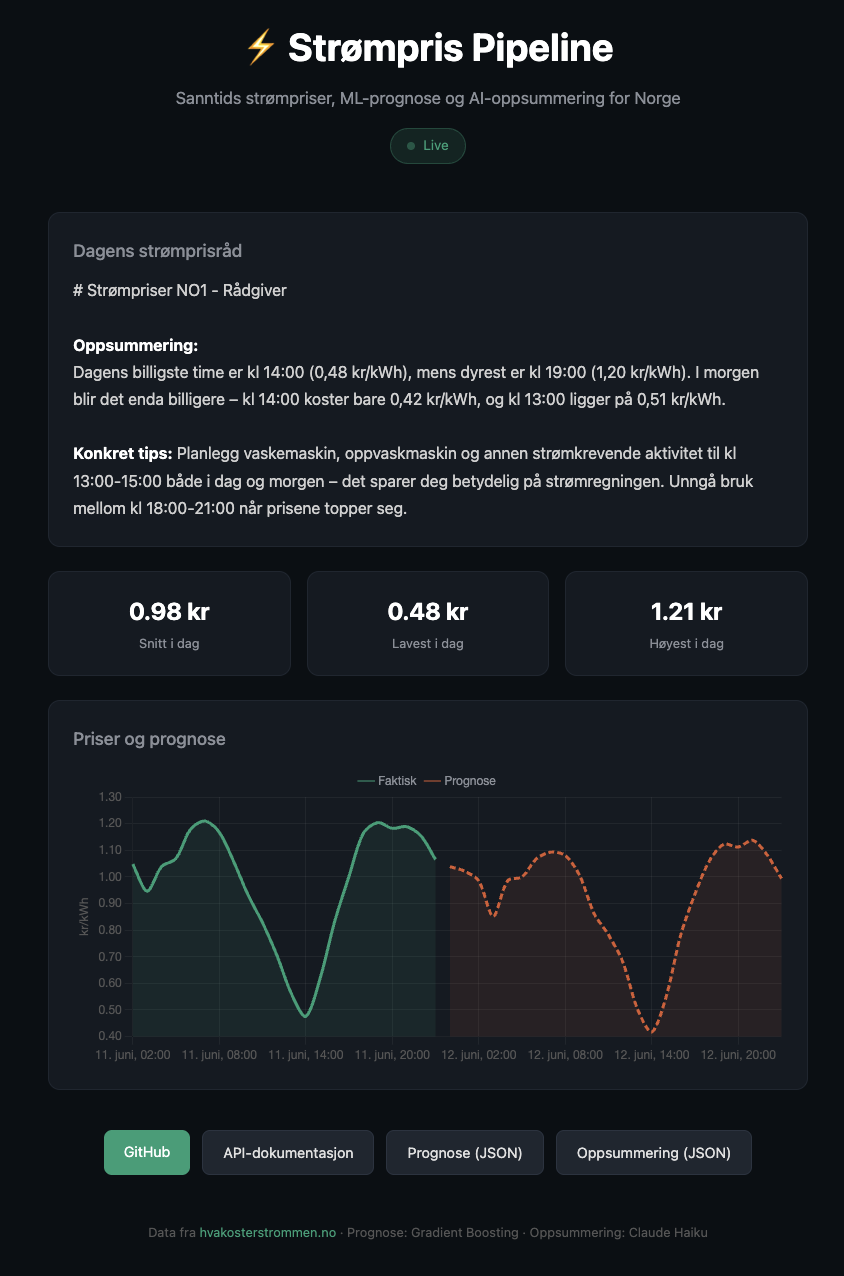
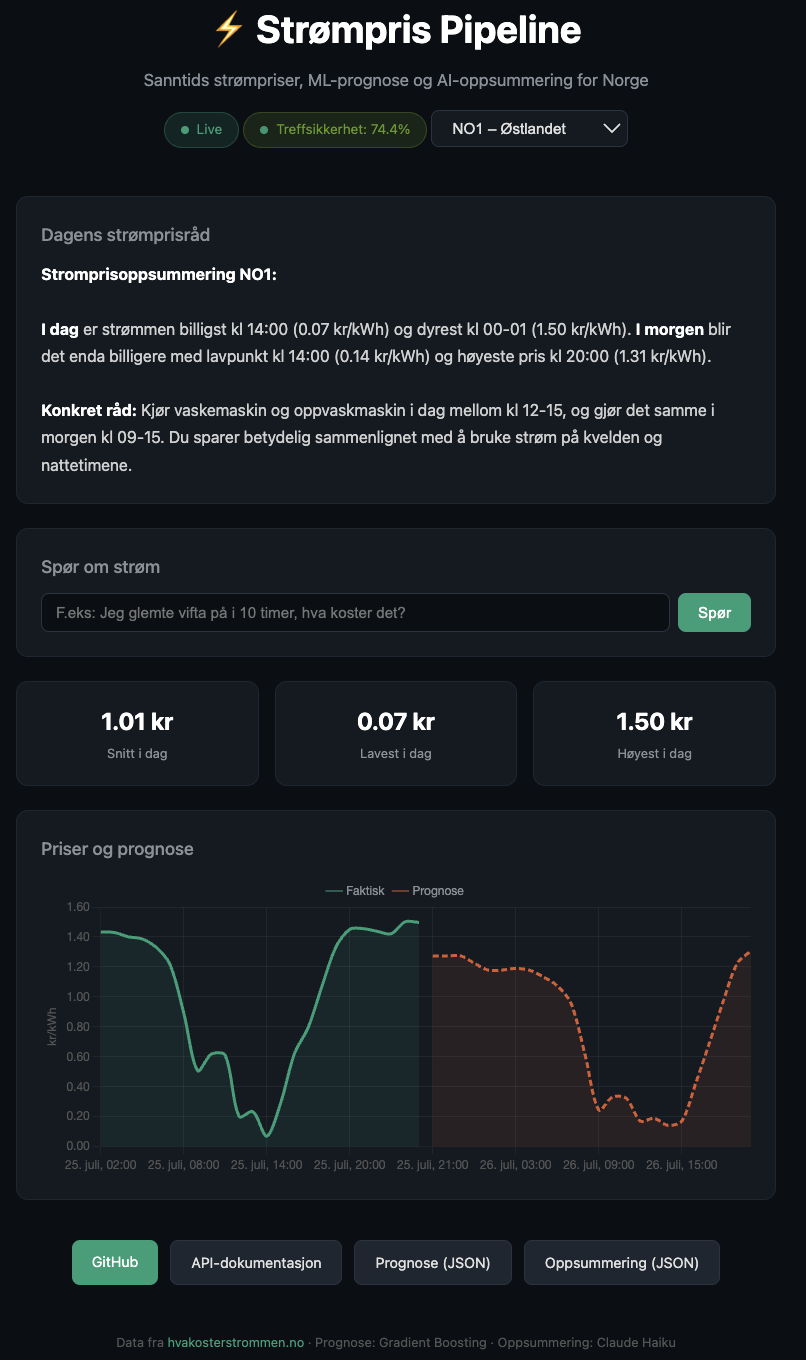
README: document weather, Q&A, zones, accuracy tracking

diff --git a/README.md b/README.md
@@ -1,43 +1,54 @@
 # ⚡ Strømpris Pipeline
 
-A real-time Norwegian electricity price platform with ML forecasting and LLM-powered insights — from data ingestion to cloud deployment.
+A real-time Norwegian electricity price platform with ML forecasting, weather-enhanced predictions, and LLM-powered insights — from data ingestion to cloud deployment.
 
 **[→ Live Demo](https://strompris-pipeline.fly.dev/)** · **[→ API Docs](https://strompris-pipeline.fly.dev/docs)** · **[→ Forecast JSON](https://strompris-pipeline.fly.dev/forecast)**
 
 ## Why I Built This
 
-I finished my second-year as a software engineering student at OsloMet and started this summer project. After building a crypto API data pipeline in my first year, I wanted my next project to go deeper — not just call an API and print results, but own the whole lifecycle: ingestion, storage, modelling, serving, and deploying it for real. I picked Norwegian electricity prices because it's data that actually matters to people here, and because the Norwegian tech market is short on exactly the skills this project forced me to learn: data engineering, cloud deployment, and integrating AI into real systems. Every part of this was built from scratch, not from a tutorial.
-
-
+I finished my second year as a software engineering student at OsloMet and started this summer project. After building a crypto API data pipeline in my first year, I wanted to go deeper — not just call an API and print results, but own the whole lifecycle: ingestion, storage, modelling, serving, and deploying it for real. I picked Norwegian electricity prices because it's data that actually matters to people here, and because the Norwegian tech market is short on exactly the skills this project forced me to learn: data engineering, cloud deployment, and integrating AI into real systems. Every part of this was built from scratch, not from a tutorial.
 
 ![Dashboard](docs/dashboard.png)
 
-## What it does
+## What It Does
 
-Ingests hourly Norwegian electricity spot prices across all five price zones (NO1–NO5), stores four years of history in PostgreSQL, forecasts the next 24 hours using a trained ML model, and generates natural-language daily advice via an LLM — all served through a documented REST API and a visual Streamlit dashboard.
+Ingests hourly Norwegian electricity spot prices across all five price zones (NO1–NO5), stores four years of history in PostgreSQL, forecasts the next 24 hours using a weather-enhanced ML model, generates natural-language daily advice via an LLM, and lets users ask freeform questions about their electricity costs — all served through a documented REST API and a live landing page with interactive charts.
 
 ## Architecture
 
 ```
-hvakosterstrommen.no API
-        │
-        ▼
-  Ingestion (Python)
-        │
-        ▼
-  PostgreSQL (33,000+ hours)
-        │
-   ┌────┴────┐
-   ▼         ▼
-ML Model   LLM (Claude Haiku)
-   │         │
-   └────┬────┘
-        ▼
-  FastAPI (7 endpoints)
-        │
-        ▼
-  Streamlit Dashboard
+hvakosterstrommen.no    Open-Meteo (weather)
+        │                       │
+        ▼                       ▼
+  Ingestion (Python)     Weather Ingestion
+        │                       │
+        └───────┬───────────────┘
+                ▼
+  PostgreSQL (35,000+ price hours + 34,000+ weather hours)
+                │
+        ┌───────┼───────┐
+        ▼       ▼       ▼
+  ML Model    LLM     Accuracy
+  (forecast)  (Q&A)   Tracker
+        │       │       │
+        └───┬───┘───────┘
+            ▼
+  FastAPI (9 endpoints)
+            ▼
+  Landing Page + API Docs
 ```
+
+## Features
+
+**Weather-enhanced ML forecasting** — the model uses temperature data from Open-Meteo alongside price history, calendar features, and lag values. Adding weather improved forecast accuracy by 1.9% over the base model, pushing past the previous performance ceiling.
+
+**Freeform Q&A** — ask questions like "I left my fan running for 10 hours, how much did it cost?" and get a concrete answer in Norwegian using real-time price data. Built because I actually needed it during a work shift.
+
+**All five price zones** — switch between NO1 (Østlandet), NO2 (Sørlandet), NO3 (Midt-Norge), NO4 (Nord-Norge), and NO5 (Vestlandet) from the landing page. Prices, forecasts, and advice update per zone.
+
+**Accuracy tracking** — every night, the system stores its forecast. The next day, it compares predictions against actual prices and displays a live accuracy percentage on the landing page.
+
+**Fully automated pipeline** — a GitHub Actions cron job runs nightly at 22:00 Oslo time: fetches tomorrow's prices for all five zones, updates weather data, and saves forecasts for accuracy grading. Zero manual intervention.
 
 ## Tech Stack
 
@@ -45,21 +56,25 @@ ML Model   LLM (Claude Haiku)
 
 **ML/AI:** scikit-learn (HistGradientBoostingRegressor), Anthropic Claude Haiku, pandas, joblib
 
-**Infrastructure:** Docker, Docker Compose, GitHub Actions CI, Fly.io, Neon (managed Postgres)
+**Data sources:** hvakosterstrommen.no (prices), Open-Meteo (temperature)
 
-**Frontend:** Streamlit, Plotly
+**Infrastructure:** Docker, Docker Compose, GitHub Actions CI/CD, Fly.io, Neon (managed Postgres)
+
+**Frontend:** Vanilla HTML/JS landing page, Chart.js, Streamlit dashboard
 
 ## API Endpoints
 
 | Endpoint | Description |
 |---|---|
+| `/` | Live landing page with charts, AI advice, Q&A, and zone selector |
 | `/health` | Health check |
 | `/prices` | Hourly spot prices (supports date range and zone filtering) |
 | `/stats` | Summary statistics over a time period |
 | `/prices/by-hour` | Average price per hour of day across all history |
 | `/forecast` | Next 24 hours of ML-predicted prices |
+| `/ask` | Freeform Q&A about electricity costs using real price data |
 | `/summary` | AI-generated daily price advice in Norwegian |
-| `/docs` | Interactive API documentation — try every endpoint live |
+| `/accuracy` | Forecast accuracy: compares predictions against actuals |
 
 All endpoints accept `?area=NO1` through `?area=NO5`.
 
@@ -74,35 +89,37 @@ pip install -r requirements.txt
 # Start the database
 docker compose up -d
 
-# Fetch prices and train the model
+# Fetch prices and weather, train the model
 python3 ingest/fetch_prices.py
+python3 ingest/fetch_weather.py
 python3 model/save_model.py
 
-# Start the API (http://127.0.0.1:8000/docs)
+# Start the API (http://127.0.0.1:8000)
 python -m uvicorn api.main:app --reload
 
 # Start the dashboard (http://localhost:8501)
 python -m streamlit run dashboard/app.py
 ```
 
-Requires a `.env` file with `ANTHROPIC_API_KEY` for the `/summary` endpoint.
+Requires a `.env` file with `ANTHROPIC_API_KEY` for the `/summary` and `/ask` endpoints.
 
 ## ML Model
 
 The forecaster predicts the next 24 hours of electricity prices using a gradient-boosted tree trained on ~33,000 hours of historical data (September 2022 – present).
 
-**Features:** hour of day, day of week, month, weekend flag, price 24h ago, price 168h ago (same hour last week).
+**Features:** hour of day, day of week, month, weekend flag, price 24h ago, price 168h ago, current temperature, temperature 24h ago.
 
-**Performance:** MAE of 0.183 kr/kWh on a one-year holdout test set, beating the naive "same as yesterday" baseline of 0.191 kr/kWh. The remaining error is driven by factors outside the feature set — weather, grid events, and news — representing the practical floor for this input set.
+**Performance:** MAE of 0.181 kr/kWh on a one-year holdout test set, beating both the naive "same as yesterday" baseline (0.193 kr/kWh) and the model without weather data (0.184 kr/kWh). Live accuracy is tracked daily and displayed on the landing page.
 
-## Data Source
+## Data Sources
 
-[hvakosterstrommen.no](https://www.hvakosterstrommen.no/) — a free, open API for Norwegian day-ahead spot prices. All five price zones (NO1–NO5), hourly resolution, history back to September 2022.
+**Prices:** [hvakosterstrommen.no](https://www.hvakosterstrommen.no/) — free, open API for Norwegian day-ahead spot prices. All five price zones (NO1–NO5), hourly resolution, history back to September 2022.
+
+**Weather:** [Open-Meteo](https://open-meteo.com/) — free weather API. Historical temperatures via ERA5 reanalysis and forecast temperatures for predictions.
 
 ## Future Improvements
 
-- **Weather data integration** — temperature is the primary driver of electricity demand; adding it would push past the current MAE floor
-- **Multi-zone forecasting** — the current model is trained on NO1 only; zone-specific models for NO2–NO5
-- **Scheduled daily ingestion** — automated price fetching via cloud scheduler
-- **Full historical backfill for NO2–NO5** — currently 30 days; NO1 has the complete 4-year history
-- **Monitoring** — Grafana dashboards for API health, data freshness, and model drift
+- Multi-zone ML models (current model is trained on NO1 only)
+- Historical date picker on the landing page
+- Mobile layout optimization
+- Grafana monitoring dashboard for API health and data freshness
